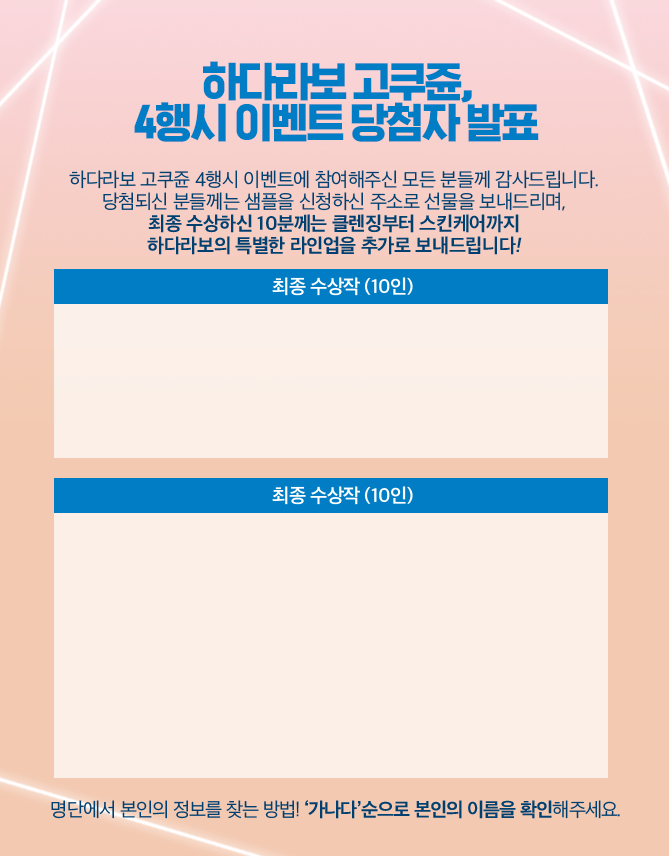
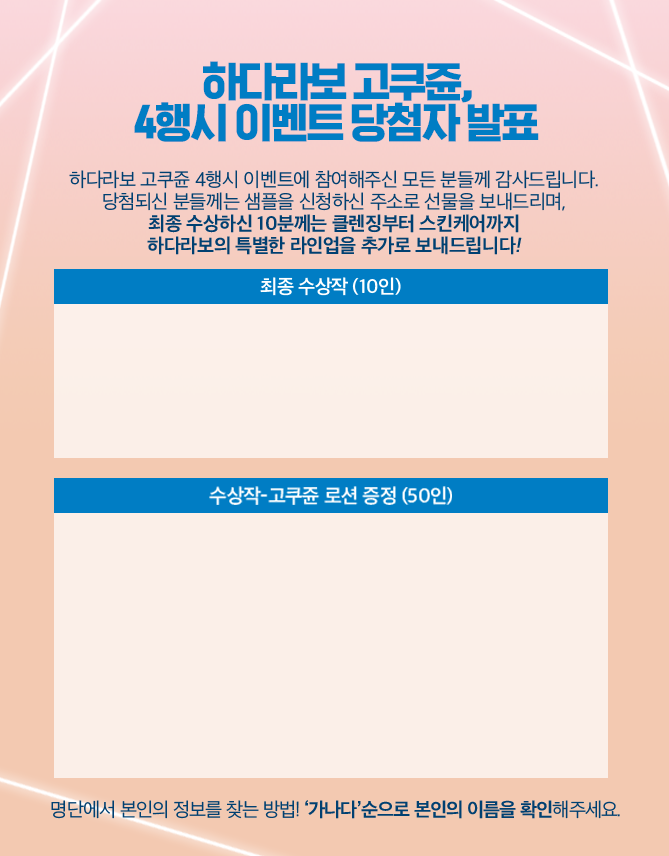
당첨자 팝업 완료

Changed region(s): [[0.299, 0.5467, 0.6876, 0.6075], [0.3886, 0.3037, 0.6278, 0.3645]]

diff --git a/m/css/ui.css b/m/css/ui.css
@@ -1710,7 +1710,7 @@ img {
 	position: absolute;
 	top: 135px;
 	left: 26px;
-	width: 265px;
+	width: 278px;
 }
 .layer-winner .layer .list-area .block._1st {
 	height: 94px;
